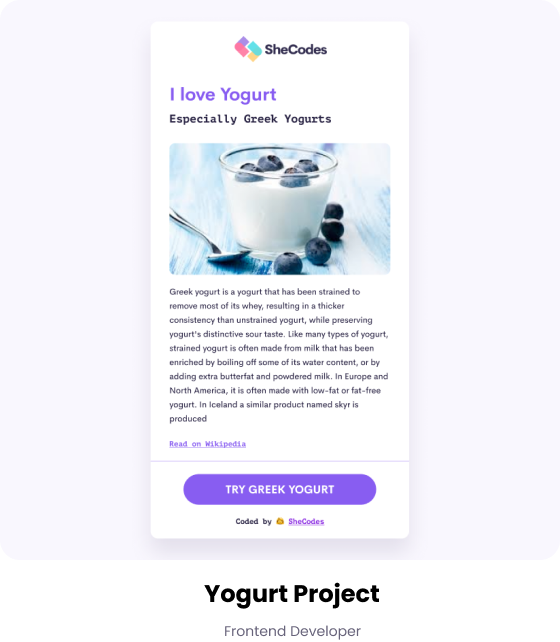
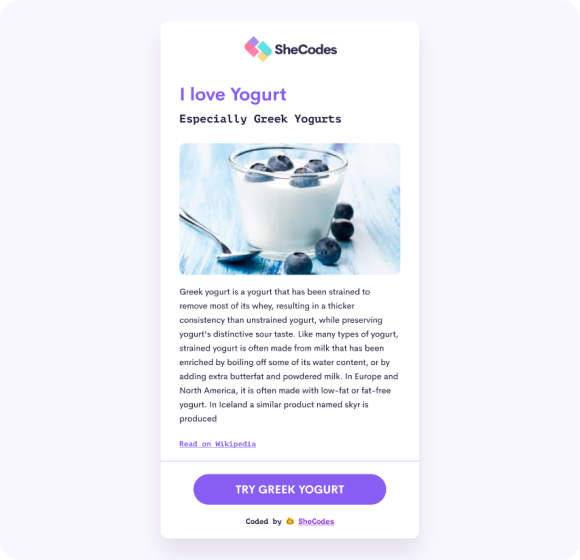
Added Work Page, added css, images

Changed region(s): [[0.2732, 0.0607, 0.7286, 1.0]]

diff --git a/work.html b/work.html
@@ -1,0 +1,51 @@
+<!DOCTYPE html>
+<html lang="en">
+<head>
+    <meta charset="UTF-8">
+    <meta http-equiv="X-UA-Compatible" content="IE=Edge" />
+     <link rel="preconnect" href="https://fonts.gstatic.com">
+     <link href="https://fonts.googleapis.com/css2?family=Playfair+Display:wght@700&family=Poppins:wght@500;700&display=swap" rel="stylesheet">
+     <!-- Bootstrap CSS -->
+     <link href="https://cdn.jsdelivr.net/npm/bootstrap@5.0.0-beta2/dist/css/bootstrap.min.css" rel="stylesheet" 
+     integrity="sha384-BmbxuPwQa2lc/FVzBcNJ7UAyJxM6wuqIj61tLrc4wSX0szH/Ev+nYRRuWlolflfl" 
+     crossorigin="anonymous">
+    <link rel="stylesheet" href="styles/portfolio.css"> 
+    <meta name="viewport" content="width=device-width,
+    initial-scale=1.0"> 
+    <!-- FontAwesome -->
+    <script src="https://kit.fontawesome.com/503dda7dc9.js" crossorigin="anonymous"></script>
+    <!-- Bootstrap -->
+    <script src="https://cdn.jsdelivr.net/npm/bootstrap@5.0.0-beta2/dist/js/bootstrap.bundle.min.js" 
+    integrity="sha384-b5kHyXgcpbZJO/tY9Ul7kGkf1S0CWuKcCD38l8YkeH8z8QjE0GmW1gYU5S9FOnJ0" 
+    crossorigin="anonymous"></script>
+    <title>About</title>  
+</head>
+<body>
+    <div class="content-container container">
+        <div class="content">
+            <h1 class="mb-5">Take a look at what I've been working on!</h1>
+        <div class="row">
+            <div class="col-md-6 mb-5">
+                <img  src="images/yogurt.png"class="img-fluid mb-3 rounded" alt="" />
+                <h3 class="text-center m-0">Yogurt Project</h3>
+            <p class="text-center text-muted">Built with HTML and CSS</p>
+            </div>
+            <div class="col-md-6 mb-5">
+                <img  src="images/weather.png"class="img-fluid mb-3 rounded" alt="" />
+                <h3 class="text-center m-0">Weather Project</h3>
+            <p class="text-center text-muted">Built with HTML,CSS,Javascript & React</p>
+            </div>
+            <div class="col-md-6 mb-5">
+                <img  src="images/dictionary.png"class="img-fluid mb-3 rounded" alt="" />
+                <h3 class="text-center m-0">Dictionary App</h3>
+            <p class="text-center text-muted">Built with HTML,CSS and React</p>
+            </div>
+            <div class="col-md-6 mb-5">
+                <img  src="images/translation.png"class="img-fluid mb-3 rounded" alt="" />
+                <h3 class="text-center m-0">Translation App</h3>
+            <p class="text-center text-muted">Built with HTML,CSS and React</p>
+            </div>
+        </div>
+    </div>
+</body>
+</html>

diff --git a/styles/portfolio.css b/styles/portfolio.css
@@ -57,18 +57,31 @@ p {
       line-height: 1.5;
       font-size: 24px;
   }
-  .about-section{
+  .content-container {
       padding: 160px 20px;
   }
-  .about-section h1 {
+  .content h1 {
       font-size: 64px;
       line-height: 80px;
+      text-align: center;
   }
-  .about-section h2 {
+  .content h2 {
       font-size: 18px;
       font-family: var(--default-font-family);
   }
-  .about-section-content {
+  .content h3 {
+      font-size: 24px;
+      line-height: 1.5;
+      margin: 20px 0;
+      font-family: var(--default-font-family);
+  }
+
+  .content p {
+      margin: 0;
+      font-size: 14px;
+  }
+
+  .content  {
       margin: 30px;
   }
   .about.html h1 {
@@ -84,9 +97,6 @@ p {
       padding: 15px 30px;
 
   }
-  
-      
-
   
   .btn-branding-outline {
    color: var(--branding-color);
@@ -110,6 +120,10 @@ p {
     }
     .hero {
         padding: 80px  20px;
+    }
+    .content {
+        text-align: center;
+        padding: 0;
     }
   
   @media (max-width: 900px) {

diff --git a/about.html b/about.html
@@ -21,10 +21,10 @@
     <title>About</title>  
 </head>
 <body>
-    <div class="about-section container">
+    <div class="content-container container">
         <div class="row">
-            <div class="col-md-6">
-                <div class="about-section-content">
+            <div class="col-lg-6">
+                <div class="content-content">
     <h1 class="mb-4">Hi I am Patricia Pereira</h1>
     <h2 class="mb-4">Frontend Developer, 
         based in Portugal.</h2>

diff --git a/index.html b/index.html
@@ -31,10 +31,7 @@
       <div>
       <a href="about.html" class="btn btn-branding">Contact
            me</a>
-        </div>
-        
-        
-    
+        </div> 
 </div>
 <p class="text-center m-5">
     Featured Project which my best projects be
